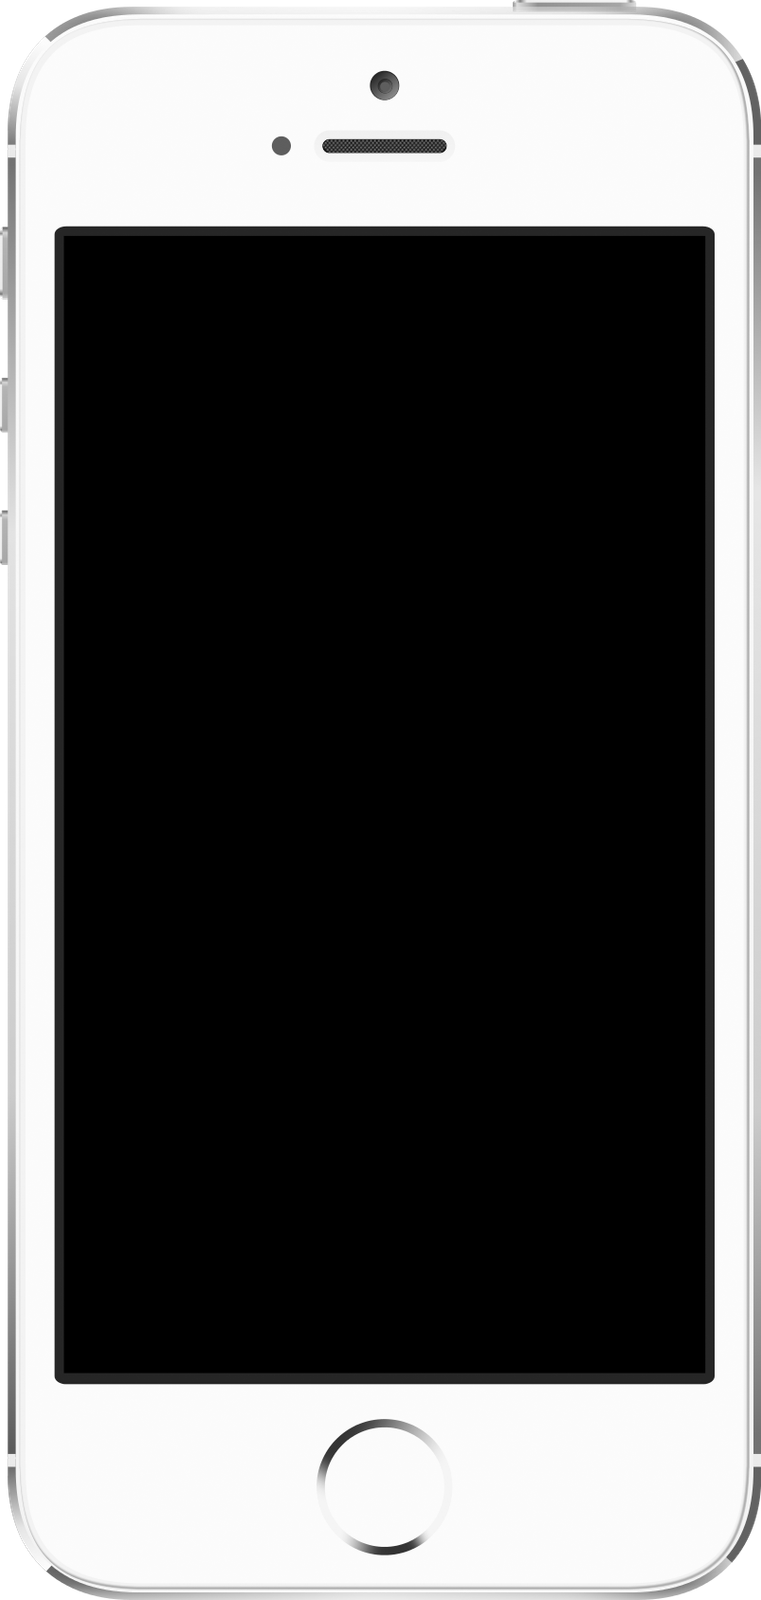
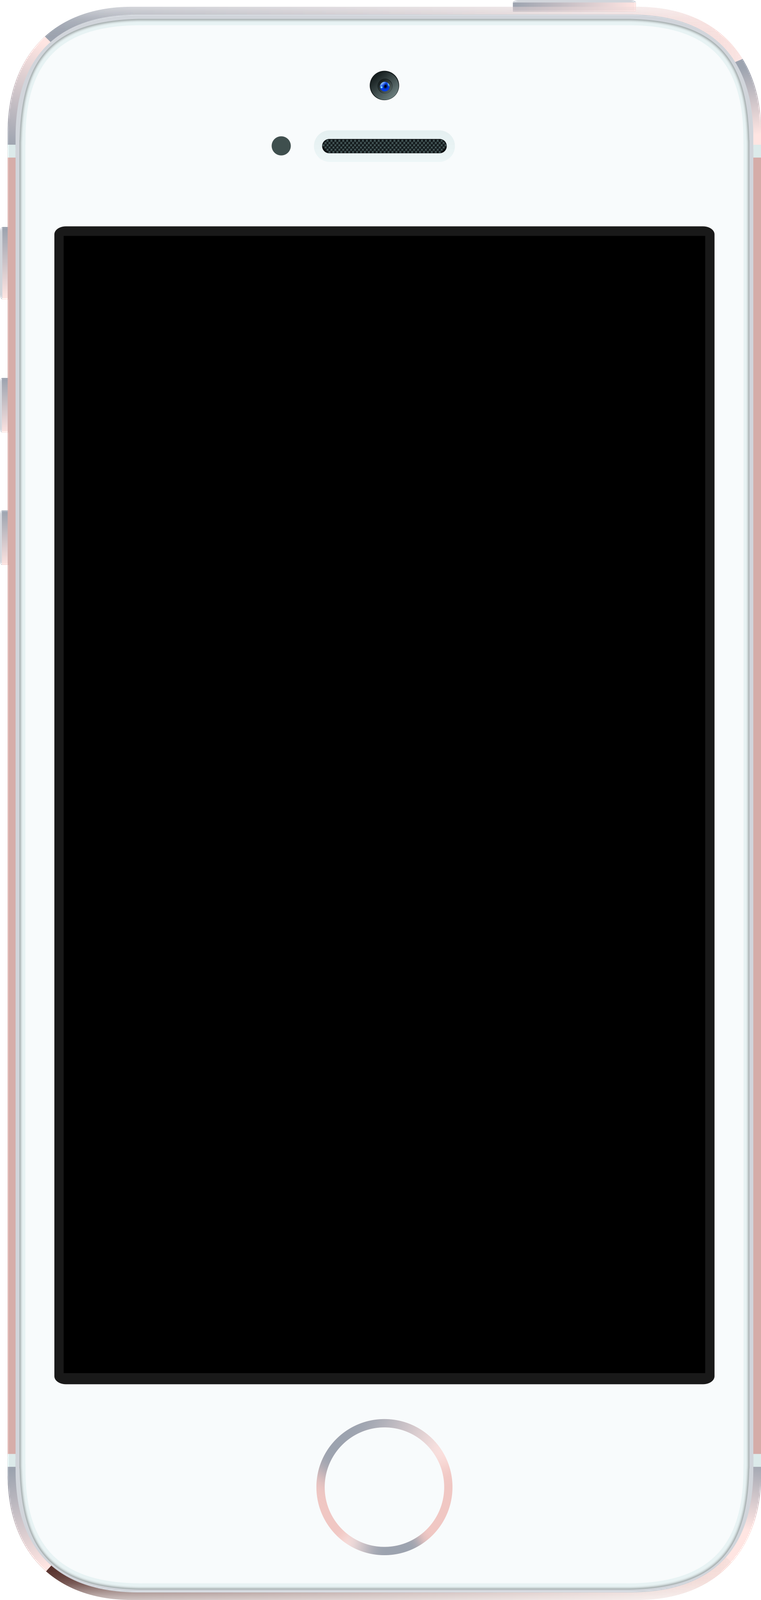
fix(catalog): replace iPhone SE 1st Gen images with authentic transparent Apple cutouts (duo, rose gold, space gray, silver)

diff --git a/EDC Catalyst.html b/EDC Catalyst.html
@@ -5099,9 +5099,10 @@ const PRODUCT_CUTOUTS = {
     "assets/apple/iphone-xs-max-space-gray-back.png"
   ],
   "10": [
-    "assets/apple/iphone-se-1st-gen-silver.png",
-    "assets/apple/iphone-se-1st-gen-rose-gold-rear.png",
-    "assets/apple/iphone-se-1st-gen-space-gray.png"
+    "assets/apple/iphone-se-1st-gen-duo.png",
+    "assets/apple/iphone-se-1st-gen-rose-gold.png",
+    "assets/apple/iphone-se-1st-gen-space-gray.png",
+    "assets/apple/iphone-se-1st-gen-silver.png"
   ],
   "11": [
     "https://store.storeimages.cdn-apple.com/4982/as-images.apple.com/is/MTJV3?wid=1000&hei=1000&fmt=png-alpha",
